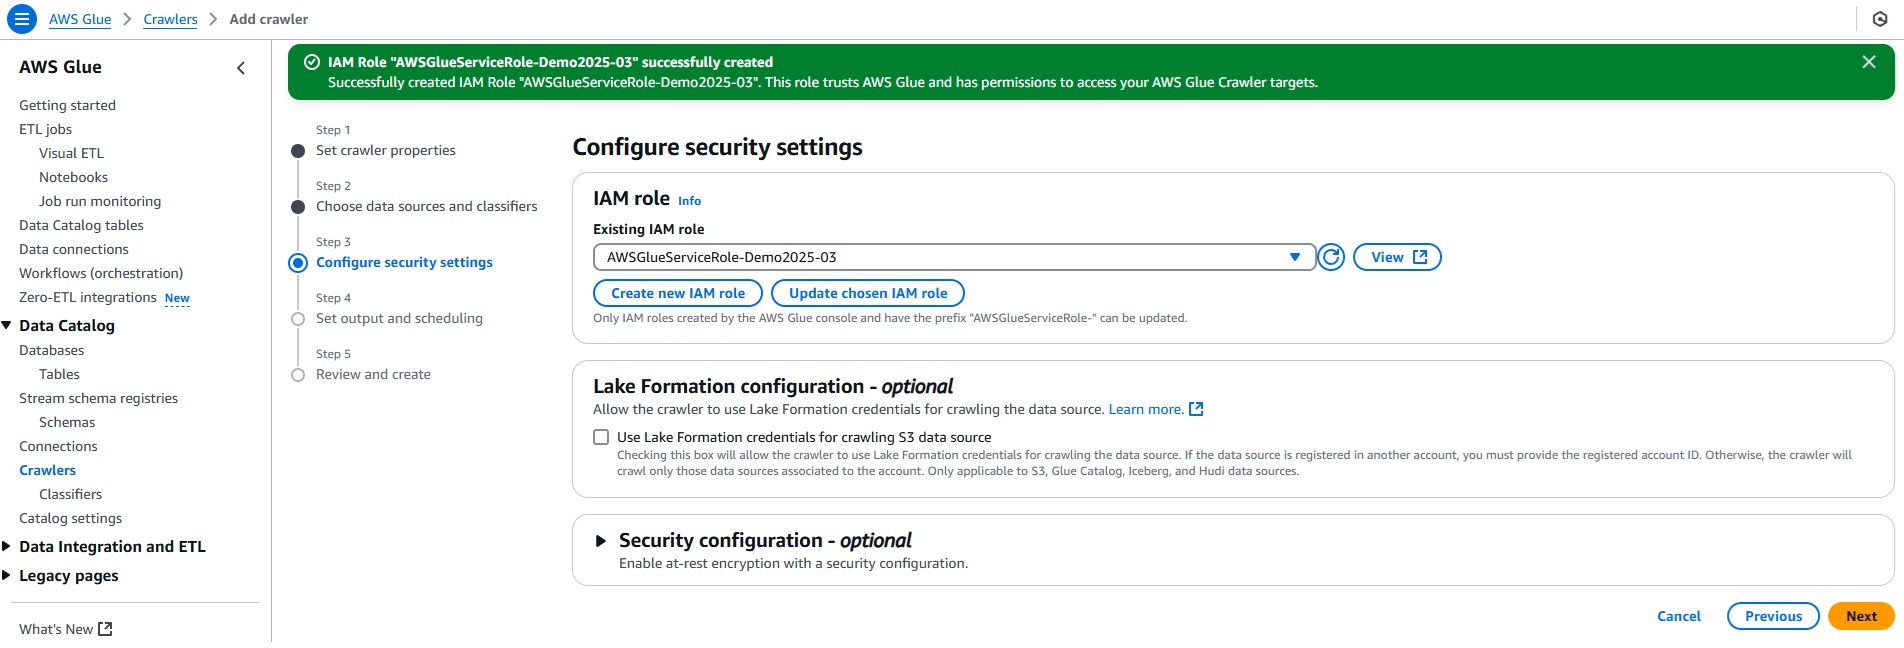
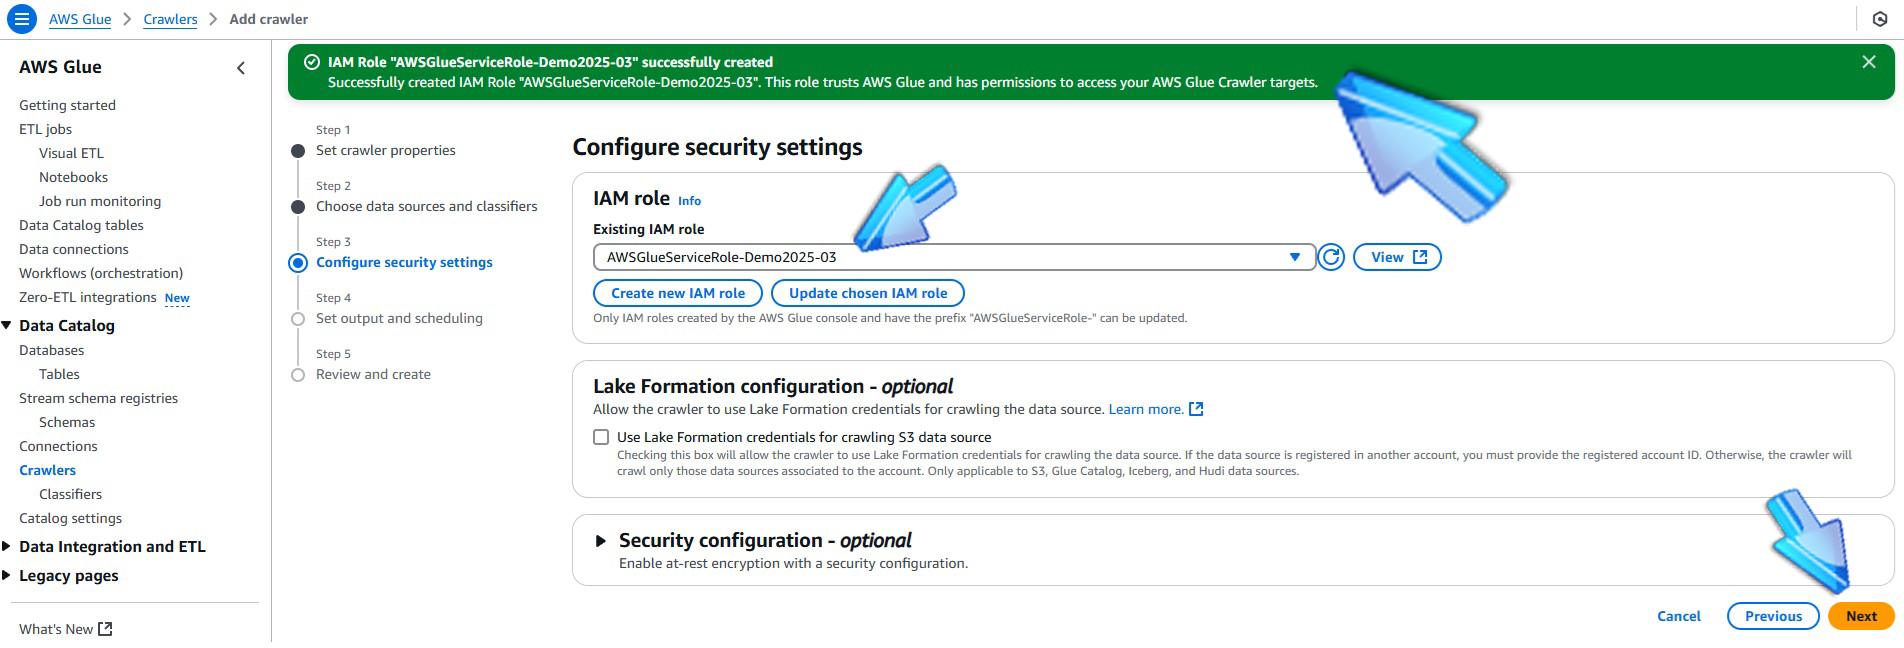
Update AWS Glue documentation image for crawler role creation

Changed region(s): [[0.6817, 0.0926, 0.8057, 0.3395], [0.9296, 0.7407, 0.9916, 0.9568], [0.4338, 0.2469, 0.5268, 0.4012]]

diff --git a/thisisthelab.md b/thisisthelab.md
@@ -154,10 +154,14 @@
 
 ###### ![Brazil](https://github.com/Acheroniano/flag-icon/blob/master/png/16/country-4x3/br.png "Brazil") 
 ###### Nas configurações de segurança crie uma IAM ROLE para AWS GLUE.
+###### Confira as configurações realizadas.
 
 ###### ![United States](https://github.com/Acheroniano/flag-icon/blob/master/png/16/country-4x3/us.png "United States") 
 ###### In security settings create a IAM ROLE for AWS GLUE.
+###### Check the settings.
 
 ![AWS Glue Crawler IAM ROLE](./images/17a-AWSGlueCrawlerIAMRole.jpg)
 ![AWS Glue Crawler IAM ROLE Name](./images/18a-AWSGlueCrawlerIAMRoleName.jpg)
+![AWS Glue Crawler security settings](./images/19a-AWSGlueCrawlerRoleCreated.jpg)
+
 
